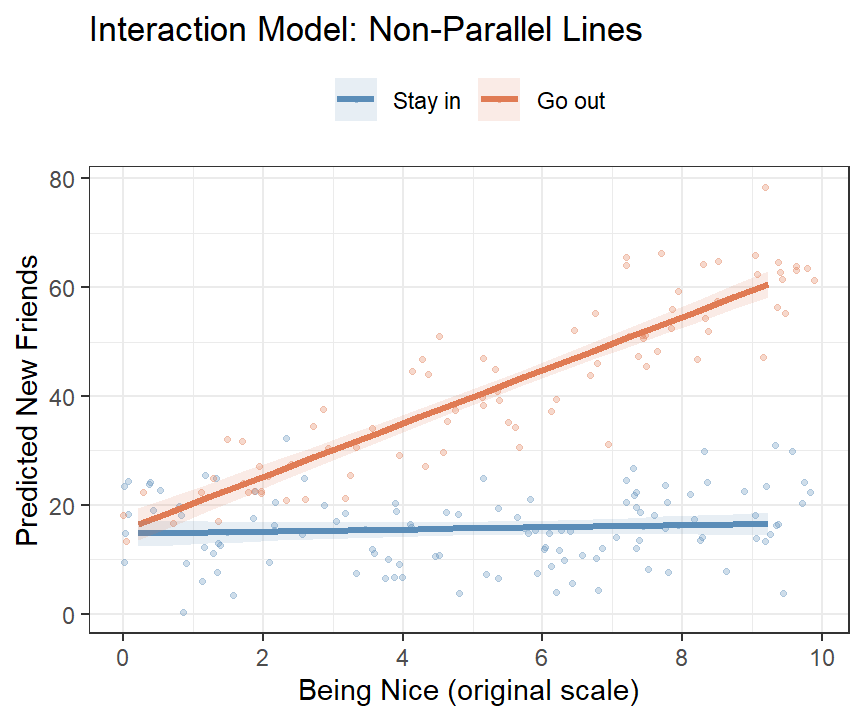
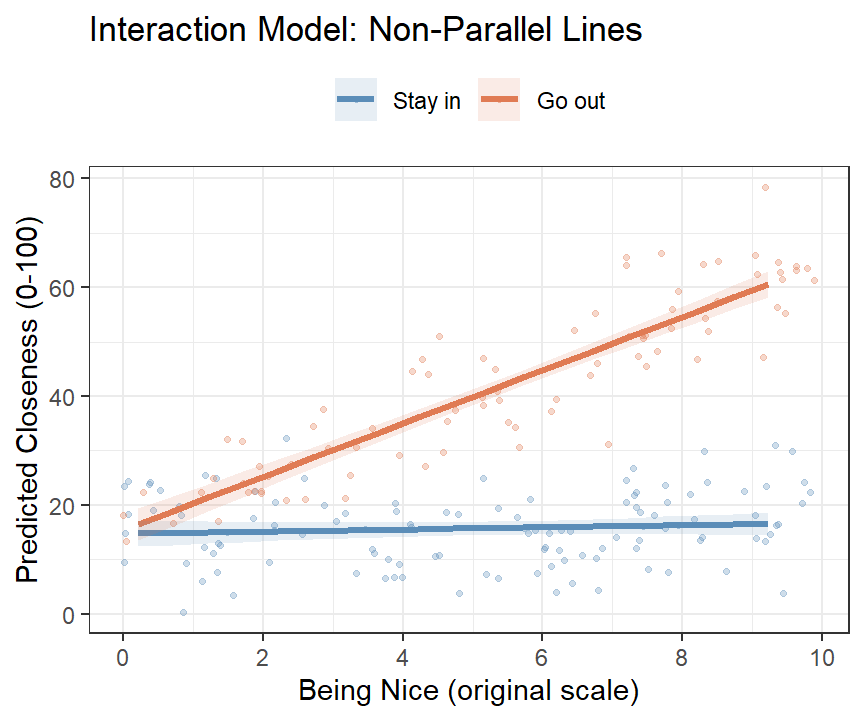
Review edits: Chapter_Interaction_1 (CH16-P01, U01, U02, U03, P02, B01, VOICE, B02, G01, G02)
The DV is a 0-100 closeness thermometer, so it is now called one everywhere.
Renamed NewFriends -> Closeness so the printed model output stops contradicting
the prose; Ch17 gets the identical sweep next.

New cold open (approved mid-session) replacing the recap that used to open the
chapter, per VOICE_GUIDE 15. It runs the two separate regressions the chapter
previously only imagined, and lands on the missing test. Verified the payoff
before writing it: the separate slopes are 0.1998 and 4.9042, and the interaction
model's B1 and B1+B3 reproduce them to four decimals with B3 = 4.7044 as the gap.

Also fixed two things the review did not catch: a literal newline inside $\neq$
that was splitting a table row, and scale() returning a one-column matrix, which
lm() accepts silently and which then breaks sjPlot::plot_model(). Centering now
uses as.numeric(); all coefficients verified unchanged.

Changed region(s): [[0.0, 0.55, 0.0625, 0.825], [0.0, 0.3056, 0.0625, 0.5194]]

diff --git a/book_review/16_Interaction_1.md b/book_review/16_Interaction_1.md
@@ -18,7 +18,7 @@ count of friends."
 - **Location:** Chapter_Interaction_1.qmd → throughout (search anchors: "they form about 15 friends on average", "more close friends than students who stay in", "about `r round(b_go, 0)` more close friends", "The \"Go out\" group has far more close friends")
 - **Problem:** The study description is precise: "how close of a friendship they formed **with one particular person** (0–100 feelings thermometer)." But the variable is named `NewFriends`, axis labels say "Predicted New Friends," and the interpretations count people: "they form about 15 friends," "25 more friends," "every additional point of niceness is associated with about 5 more close friends." A student can't tell whether the outcome is closeness (points) or quantity (humans). Fifteen *friends* and fifteen *closeness points with one acquaintance* are wildly different claims, and the confusion sits exactly where the chapter teaches coefficient interpretation — the skill being graded.
 - **Fix:** Pick one identity and enforce it everywhere. Recommended: keep the thermometer (it matches the cited Back et al. design and the 0–100 scale). Then: rename the variable `Closeness` (or keep `NewFriends` but fix all prose/labels), change axis labels to "Predicted Friendship Closeness (0–100)" (the APA figure already does this correctly — it's the only place that does), and rewrite every "N friends" interpretation as "N closeness points" ("going out is associated with about 25 points more closeness at average niceness"). Alternatively redefine the DV as a friend count — but then the 0–100 thermometer description, the APA figure labels, and the write-up's "friendship closeness" all need to change instead. Sweep the whole chapter; there are ~10 instances.
-- **Approved:** [ x]
+- **Approved:** [x] — IMPLEMENTED 2026-08-16. Kept the thermometer and took the stronger of the two options Alex was offered: renamed the variable `NewFriends` → `Closeness`, so the printed model output agrees with the prose instead of contradicting it. All axis labels now read "Predicted Closeness (0-100)"; every "N friends" interpretation is now "N points of closeness". Chapter 17 swept identically in the same session. Remaining uses of "friends" in the chapter are all legitimate (the Back et al. framing, the thermometer's 100 = "best friends" anchor, and the `Friend.Data` object name).
 
 ### [CH16-U01] The "How to Center in R" chunk contains only comments — nothing runs
 - **Priority:** MED
@@ -27,7 +27,7 @@ count of friends."
 - **Location:** Chapter_Interaction_1.qmd → "How to Center in R" (search anchor: "# data$BeingNice.C <- scale(data$BeingNice, center = TRUE, scale = FALSE)")
 - **Problem:** The one code chunk in the centering section is entirely commented out — the reader sees gray pseudo-code and no output, in the section teaching the single most error-prone mechanical step of the week (`scale = FALSE` vs. the default). The real centering happens later inside a hidden simulation chunk, so students never see live centering code with a live check.
 - **Fix:** The section precedes the data introduction, which is why the code was stubbed. Two options: (a) move the "How to Center in R" subsection to just after "The Data" and make it real: `Friend.Data$BeingNice.C <- scale(Friend.Data$BeingNice, center=TRUE, scale=FALSE)` followed by `mean(Friend.Data$BeingNice.C)` showing ~0 (and remove the centering line from the hidden simulate chunk); or (b) keep the placement and demo on a toy vector (`x <- c(2,4,9); x - mean(x)`). Option (a) is better — it also gives the anti-footgun sentence a home: "forget `scale = FALSE` and you've silently z-scored instead; your slopes will be in units nobody asked for."
-- **Approved:** [ x]
+- **Approved:** [x] — IMPLEMENTED 2026-08-16 via option (a). The section now sits just after The Data, runs for real, and prints the `mean()` check (which comes out as `1.78e-16`, so the prose explains the scientific notation rather than pretending it says 0). The centering line is gone from the hidden simulate chunk. **Found a second footgun while doing this and documented both:** `scale()` returns a one-column *matrix*, not a vector, and `lm()` accepts it silently — which is what makes it dangerous, because `sjPlot::plot_model()` in CH16-U02 then fails with `variable 'BeingNice.C' was fitted with type "nmatrix.1"`. Centering now uses `as.numeric(scale(...))`; verified every coefficient is identical either way.
 
 ### [CH16-U02] The homework requires sjPlot; the chapter only builds plots the artisanal way
 - **Priority:** MED
@@ -36,7 +36,7 @@ count of friends."
 - **Location:** Chapter_Interaction_1.qmd → after the interaction plot (search anchor: "## Simple Slopes: Testing Each Group's Slope Separately")
 - **Problem:** Week 11's HW: "Plot the simple slopes for the interaction and write up the results in APA format (**visualize in sjPlot**)." The chapter builds its interaction plots via emmeans + ggplot from scratch — better plots, honestly, but a student needing the sjPlot one-liner for homework won't find it in the book (it appears in the Multiple Regression chapter for main effects only).
 - **Fix:** Add a short subsection "The One-Line Version" after the main interaction plot: `sjPlot::plot_model(Model.2, type = "int")` (or `type = "pred", terms = c("BeingNice.C","GoingOut_")`), shown with output, plus two sentences: this is the quick-look/homework version; the hand-built emmeans version gives you control over raw data points, axis back-transformation, and APA polish — learn both, use the fast one until the figure matters.
-- **Approved:** [ x]
+- **Approved:** [x] — IMPLEMENTED 2026-08-16. Added "### The One-Line Version" after the interaction plot, framed with the exploratory-versus-reporting-code distinction from VOICE_GUIDE §16. Ran `plot_model()` and read its actual output rather than describing it from memory, which turned out to matter three ways: it plots against **centered** niceness (x axis runs −6.6 to +6.6, not 0 to 10), it labels the axis "Being Nice C" because it is just reading the column name, and it draws no raw data. Those three limitations are now the stated reason the hand-built version exists. Note this item is only implementable because of the `as.numeric()` fix recorded under CH16-U01.
 
 ### [CH16-U03] No Short Story on the biggest chapter in Part 2
 - **Priority:** MED
@@ -45,7 +45,7 @@ count of friends."
 - **Location:** Chapter_Interaction_1.qmd → end (search anchor: "The plot and simple slopes explain the interaction after it has been tested.")
 - **Problem:** 6,500 words ending on a (great) warning callout, with no recap. Of all chapters, this is the one where a compressed retelling saves a drowning student: interaction = slopes differ; center X so zero is a person who exists; B1 = reference-group slope (simple effect), B2 = group gap at the mean, B3 = slope difference (the test); ΔR² F-test first, simple slopes to explain, plot always.
 - **Fix:** Add `## The Short Story` with those ~6 bullets plus one on the reporting order (comparison test → interaction coefficient → simple slopes → figure). Also consider a one-line "you can stop here" marker before the APA-Style Figure section for undergrads who just need the concepts — the last quarter of the chapter is write-up craft.
-- **Approved:** [x ]
+- **Approved:** [x] — IMPLEMENTED 2026-08-16. Added `## The Short Story` with the six bullets plus the reporting order as a closing line. **PARTIAL:** did not add the "you can stop here" marker before the APA-Style Figure section. It would land oddly given that the APA write-up is explicitly the Week 11 homework deliverable, so telling undergraduates they can stop before it seemed like the wrong signal. Easy to add if Alex disagrees.
 
 ### [CH16-P02] Intercept p-value interpretation is a stretch worth trimming
 - **Priority:** LOW
@@ -54,7 +54,7 @@ count of friends."
 - **Location:** Chapter_Interaction_1.qmd → "The Intercept" (search anchor: "do average-niceness, stay-at-home students form *any* friendship at all?")
 - **Problem:** Framing the intercept's p-value as testing "do they form any friendship at all?" invites students to start interpreting intercept significance tests generally — a habit that produces nonsense write-ups ("the intercept was significant, p < .001!"). The value interpretation (predicted closeness for average-nice stay-in student) is the teaching point; its p-value is almost never of scientific interest.
 - **Fix:** Keep the value interpretation; replace the p-value sentence with: "The intercept comes with a p-value testing whether this predicted value differs from zero. It does — but 'average students have nonzero friendships' is not a finding anyone will publish. Intercept p-values are usually ignorable; the slope tests are where the questions live."
-- **Approved:** [ x]
+- **Approved:** [x] — IMPLEMENTED 2026-08-16. Used the drafted replacement, refitted to the thermometer DV ("average students have a nonzero opinion of the person they sat next to" rather than "nonzero friendships"). The value interpretation above it was kept and also converted to thermometer units.
 
 ### [CH16-B01] YAML carries an extra html format block (only chapter that does)
 - **Priority:** LOW
@@ -63,11 +63,31 @@ count of friends."
 - **Location:** Chapter_Interaction_1.qmd → YAML (search anchor: "df-print: paged")
 - **Problem:** This chapter alone declares its own `html:` format options (`toc-depth: 1`, `df-print: paged`), which can override book-level HTML settings for this chapter only — one chapter of the web book could paginate data frames and truncate its sidebar differently from the rest. Same disease as the global YAML-residue item, slightly worse strain.
 - **Fix:** Covered by the global YAML cleanup (strip to `title:`) — flagged so the implementer knows this file has the extra block.
-- **Approved:** [ x]
+- **Approved:** [x] — IMPLEMENTED 2026-08-16. YAML stripped to `title:` only, including the extra `html:` block (G01). Rendered before and after; no visual change.
+
+---
+
+### [CH16-VOICE] Cold open replacing the recap opening (added and implemented 2026-08-16)
+- **Priority:** HIGH | **Effort:** M | **Perspective:** Student
+- **Problem:** The chapter opened on "Where We Are and Where We Are Going", a recap, which is the §15 failure mode that Chapters 10 and 15 both had.
+- **Fix as implemented:** Alex approved a cold open mid-session. Added `## Two Slopes, and Nothing That Compares Them` above the old recap, which is demoted rather than deleted (the same shape Ch15 ended up with). It splits the data by group, runs an ordinary regression in each half, prints both, and lands on the absence: two slopes, four *p*-values, and no test anywhere of the gap between them. Closes on the italic aphorism "*You cannot test a difference with two analyses that have never met.*"
+- **Why this device:** per §17, plant once and pay off twice. The separate-regression slopes are `0.1998` and `4.9042`; the interaction model's $B_1$ and $B_1 + B_3$ are `0.1998` and `4.9042`, identical to four decimals, with $B_3 = 4.7044$ exactly the gap. **Verified by running it before writing the prose.** So the cold open pays off once at $B_3$ ("they are the same numbers") and again at `emtrends()` ("the third time"). The closing callout, which already warned against diagnosing an interaction from two *p*-values, now reads as the third callback without being rewritten.
+- The old "The Two-Regressions Intuition" section described this same demonstration hypothetically ("Imagine, for a moment..."). It was rewritten as a short callback since the reader has now actually done it.
+- **One correction worth recording:** a draft sentence claimed the pooled model gives "slightly sharper" standard errors. It does not. Pooled SEs are 0.2106 / 0.2526 against separate SEs of 0.2107 / 0.2524, so one is fractionally *wider*. The two groups happen to have nearly identical residual spread. The sentence now says what is actually true: the estimates never move, what you gain is one pooled error term instead of two and a standard error on the gap.
+
+### [CH16-B02] Broken `$\neq$` in the coefficient summary table (found and fixed 2026-08-16)
+- **Priority:** MED | **Effort:** S | **Perspective:** Publisher
+- **Problem:** Not in the original review. The "What it tests" cell for `BeingNice.C` contained `$\neq$` in which the backslash-n had been expanded into a literal newline, splitting the table row across two lines. The table rendered broken.
+- **Fix:** Restored `$\neq$`. Confirmed in the rendered HTML that it now emits `<span class="math inline">\(\neq\)</span>` inside the cell.
 
 ---
 
 **Global items that also apply here:** chapter YAML residue; missing `fig-alt`.
+
+**G02 status:** DONE 2026-08-16. All 8 figures in this chapter now carry `fig-alt`, and the
+two hypothesis/diagnostic figures that had no caption got one as well. Alt text was written
+against actual plotted ranges (computed, not guessed) so the described endpoints match the
+figure.
 
 **Not flagged (deliberate):** The sketch-your-hypotheses-first section (this should be
 requiredreading before the class project); the additive-model residual curvature as the
